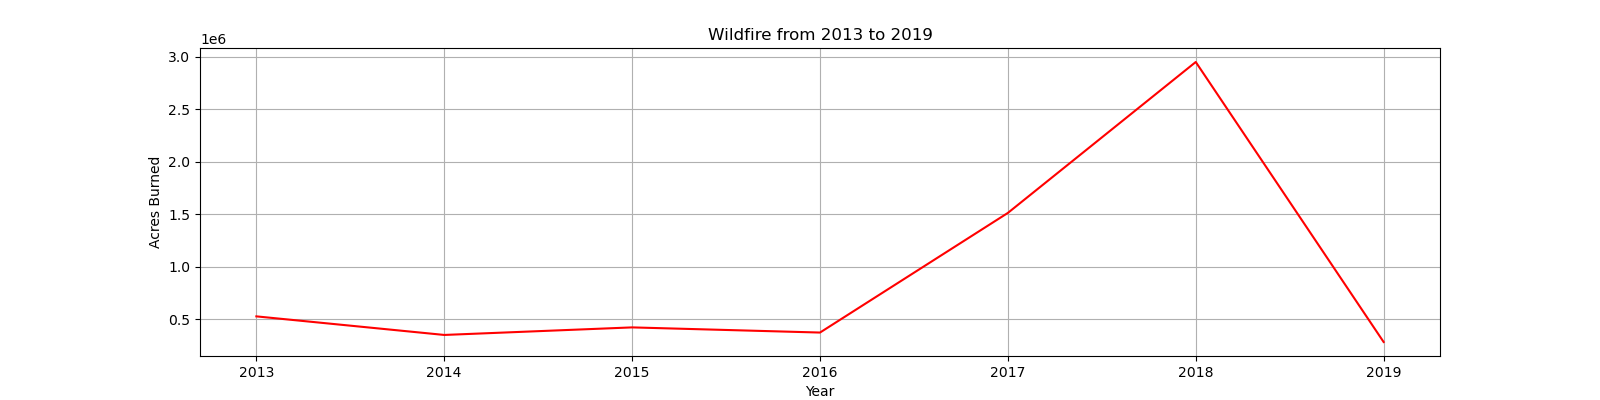
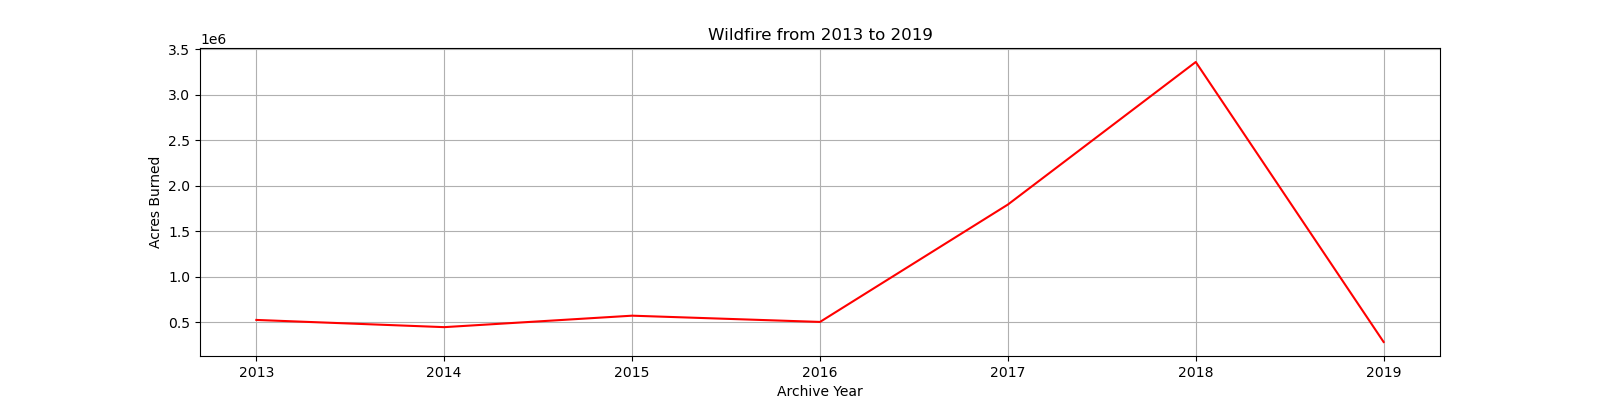
change in gernerate chat file

diff --git a/generate_chart.py b/generate_chart.py
@@ -1,6 +1,6 @@
 import numpy as np
 import matplotlib
-matplotlib.use('Agg')
+matplotlib.use("Agg")
 import matplotlib.pyplot as plt
 import pandas as pd
 
@@ -8,50 +8,19 @@ def generate_chart():
     # Read the CSV file
     df = pd.read_csv('static/California_Fire_Incidents.csv')
 
-    burned_data = list(df.AcresBurned)
-    year_data = list(df.ArchiveYear)
-
-    first_year = year_data[1]
-    burn_list = []
-    year_list = []
-
-    burn_sum = 0
-    for i in range(len(year_data)):
-        if year_data[i] == first_year:
-            if str(burned_data[i]) != 'nan':
-                burn_sum += burned_data[i]
-            else:
-                burn_sum += 0
-        else:
-            burn_list.append(burn_sum)
-            year_list.append(first_year)
-            first_year +=1
-            burn_sum = 0
-
-    burn_list.append(burn_sum)
-    year_list.append(first_year)
-
-    
-    # Make a new figure object
+    # plot Acres Burned vs Year
     fig, ax = plt.subplots(figsize=(16, 4))
-
-    # Plot the time series
-    ax.plot(year_list, burn_list, color='red')
-
-    # Add labels to the data
-    ax.set_xlabel('Year')
+    acres_sum = df.groupby(by='ArchiveYear').AcresBurned.sum()
+    ax.plot(acres_sum.index, acres_sum, color='red')
+    ax.set_xlabel('Archive Year')
+    # plt.xlabel('Archive Year')
     ax.set_ylabel('Acres Burned')
-
-
-    # Add gridlines
+    # plt.ylabel('AcresBurned')
     ax.grid(True)
-
-    # Show the plot
     ax.set_title('Wildfire from 2013 to 2019')
-
-    image_path = 'static/chart.png'
+    # plt.grid()
     plt.show()
+    image_path = 'static/chart.png'
     fig.savefig(image_path)
     plt.close()
-    
     return image_path

diff --git a/counties_affect.py b/counties_affect.py
@@ -3,13 +3,11 @@ import matplotlib.pyplot as plt
 
 def generate_counties_plot():
     df = pd.read_csv('static/California_Fire_Incidents.csv')
-    fig, ax = plt.subplots(figsize=(16,4))
+    plt.figure(figsize=(16,4))
     df.Counties.value_counts()[0:20].plot(kind='bar')
-    ax.set_title('Top 20 affected Counties')
-    ax.grid()
-    image_path = 'static/country_affect.png'
-    plt.show()
+    plt.title('Top 20 affected Counties')
+    plt.grid()
+    # plt.show()
     plt.close()
-    fig.savefig(image_path)
-    return image_path
+    return plt.subplots()
 
